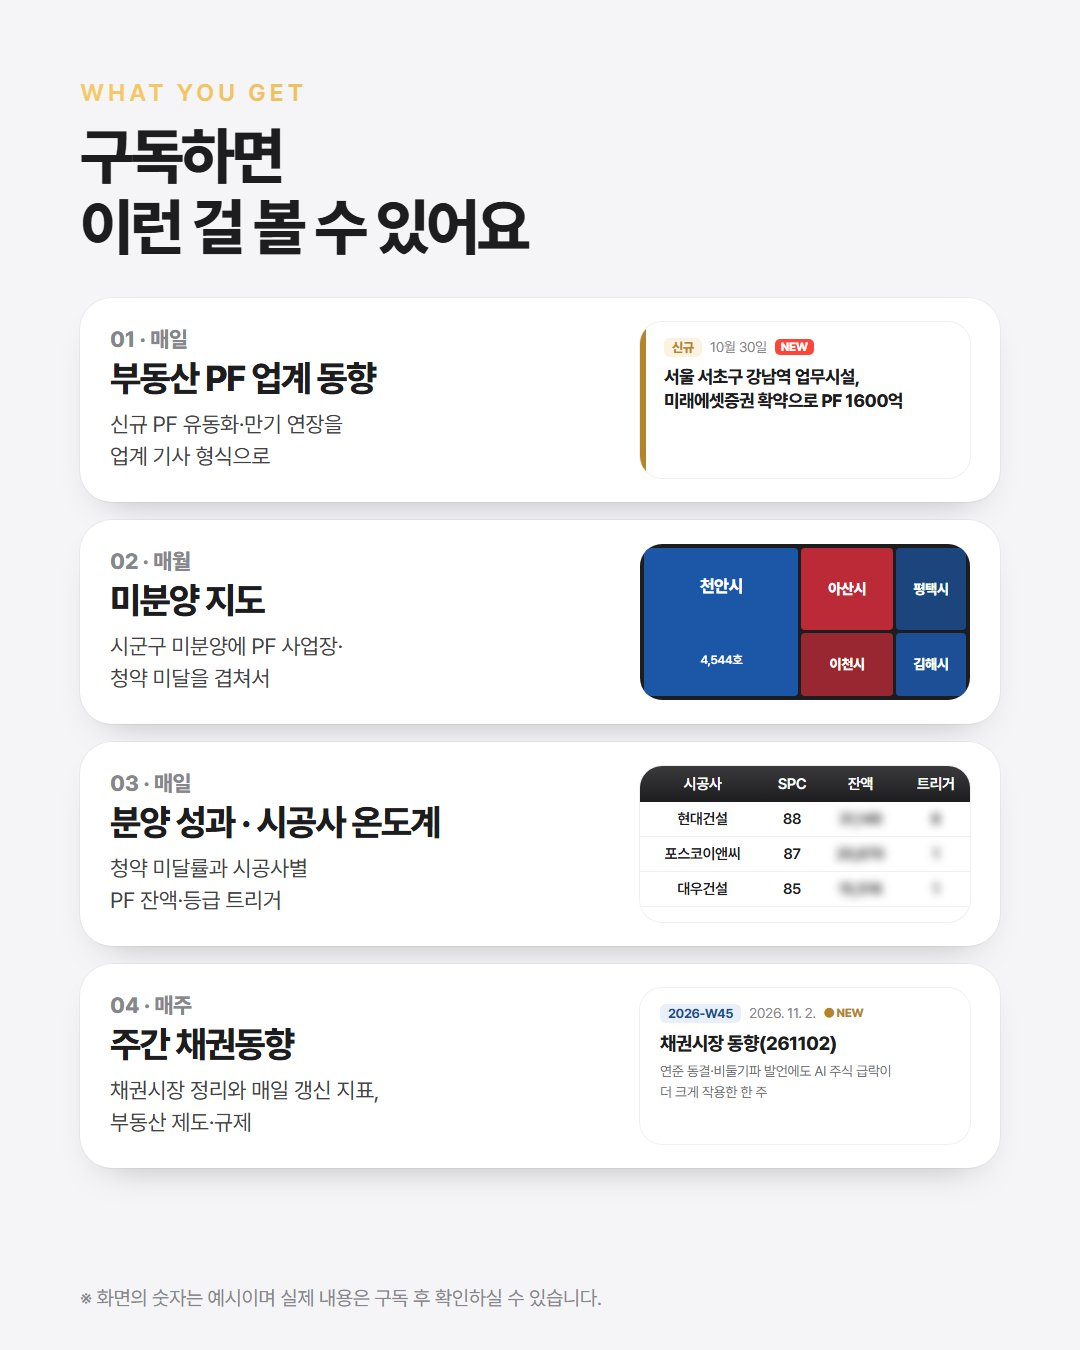
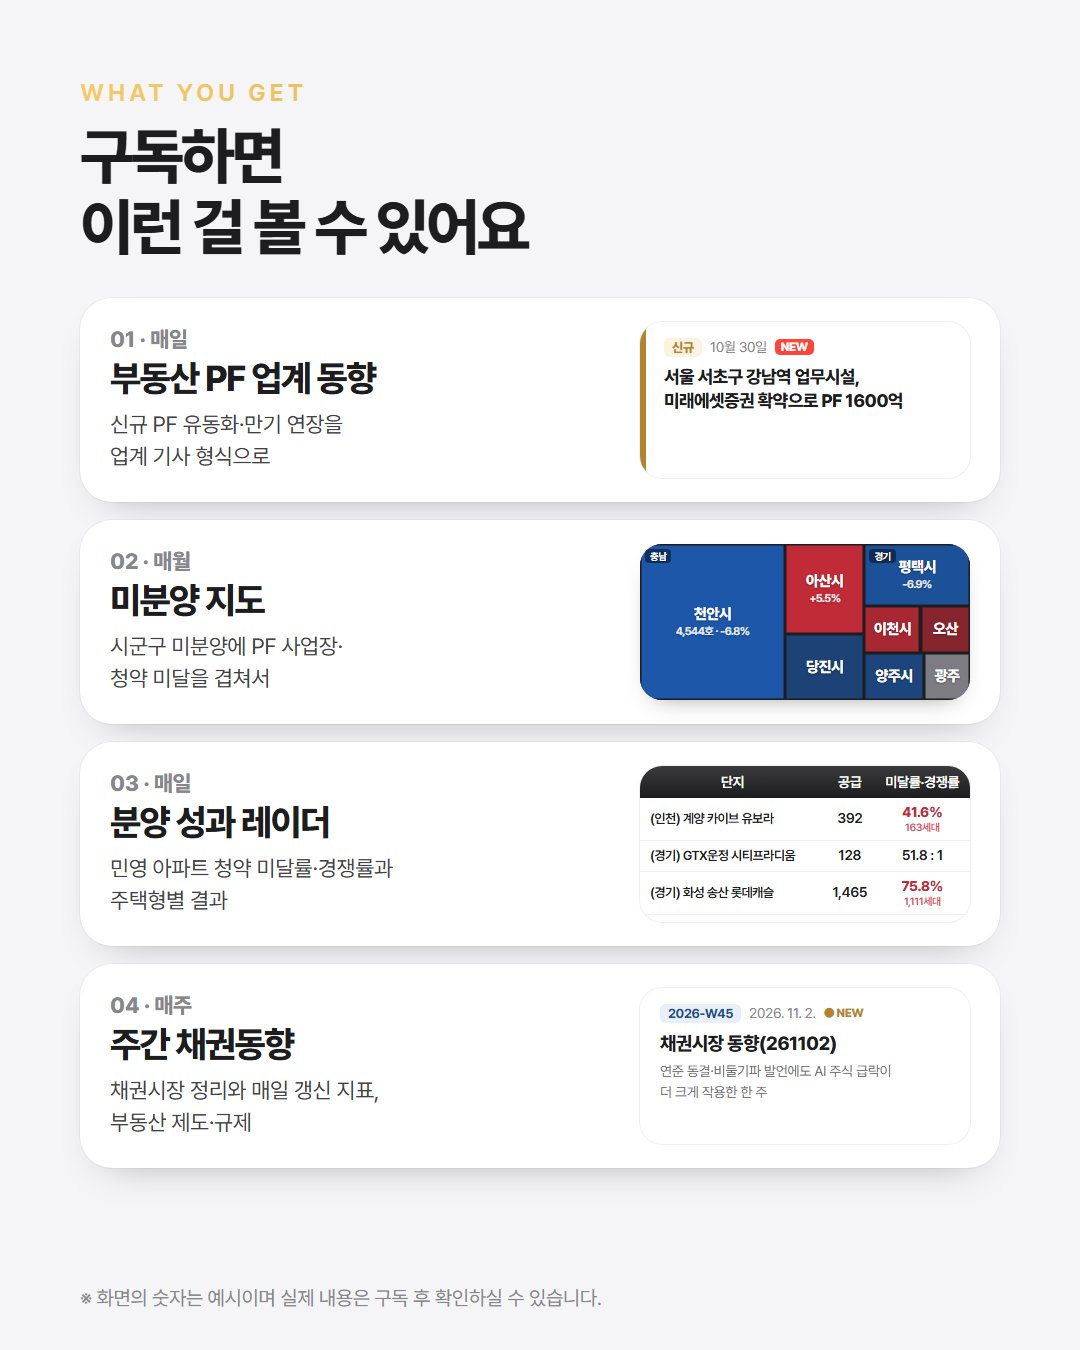
배포 2026-11-04 14:19

Changed region(s): [[0.5806, 0.4044, 0.9167, 0.5289], [0.5806, 0.56, 0.8861, 0.6844], [0.0917, 0.5911, 0.4278, 0.6844]]

diff --git a/index.html b/index.html
@@ -48,8 +48,8 @@
     <div class="promo-track" id="promo-track">
       <a href="promo/card1.jpg?v=20261104b" target="_blank" rel="noopener"><img src="promo/card1.jpg?v=20261104b" width="1080" height="1350" loading="lazy" decoding="async"
            alt="PF 레이더 · 주간 채권동향 - 부동산 PF 업계 동향 자료를 매일, 채권시장 흐름을 매주 업데이트 합니다."></a>
-      <a href="promo/card2.jpg?v=20261104b" target="_blank" rel="noopener"><img src="promo/card2.jpg?v=20261104b" width="1080" height="1350" loading="lazy" decoding="async"
-           alt="구독하면 볼 수 있는 것: 매일 부동산 PF 업계 동향, 미분양 지도, 분양 성과와 시공사 신용 온도계, 매주 채권시장 정리와 부동산 제도·규제"></a>
+      <a href="promo/card2.jpg?v=20261104c" target="_blank" rel="noopener"><img src="promo/card2.jpg?v=20261104c" width="1080" height="1350" loading="lazy" decoding="async"
+           alt="구독하면 볼 수 있는 것: 매일 부동산 PF 업계 동향, 미분양 지도, 분양 성과 레이더, 매주 주간 채권동향"></a>
       <a href="promo/card3.jpg?v=20261104" target="_blank" rel="noopener"><img src="promo/card3.jpg?v=20261104" width="1080" height="1350" loading="lazy" decoding="async"
            alt="구독 방법: 링크 접속, 구독 신청, 이메일로 비밀번호 수신"></a>
       <a href="promo/card4.jpg?v=20261104" target="_blank" rel="noopener"><img src="promo/card4.jpg?v=20261104" width="1080" height="1350" loading="lazy" decoding="async"

diff --git a/sw.js b/sw.js
@@ -7,7 +7,7 @@
    deploy-pages.ps1 이 올릴 때 뒤에 앱 셸 지문을 붙인다(v37-1a2b3c4d).
    CSS/JS 가 바뀐 배포마다 이 줄이 바뀌어 휴대폰이 새 셸을 받는다.
    여기 숫자는 손댈 필요 없다. */
-const CACHE = 'bond-weekly-v37-4d23f221';
+const CACHE = 'bond-weekly-v37-83f00c78';
 const SHELL = [
   './',
   './index.html',
